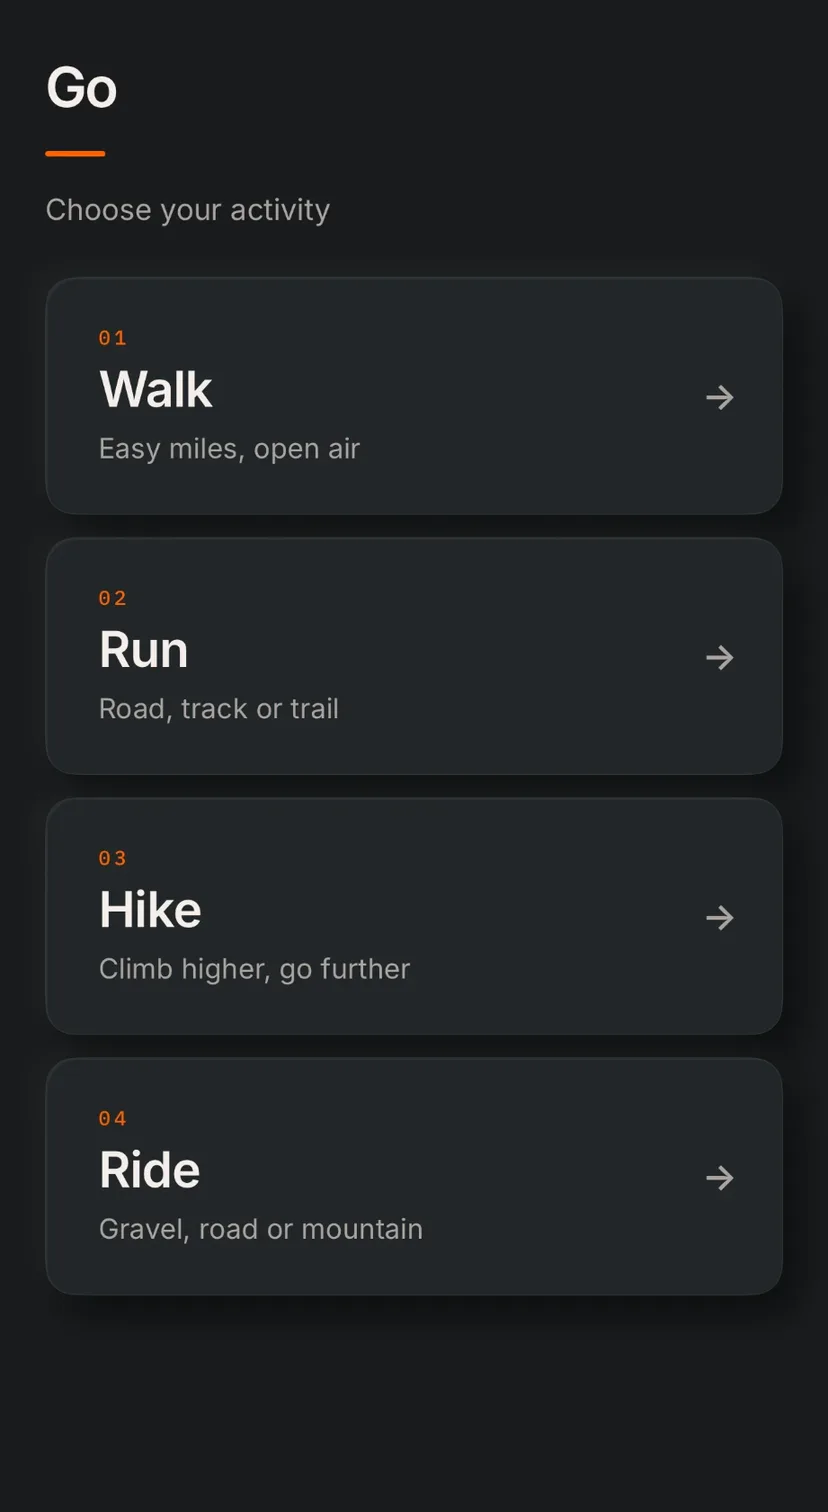
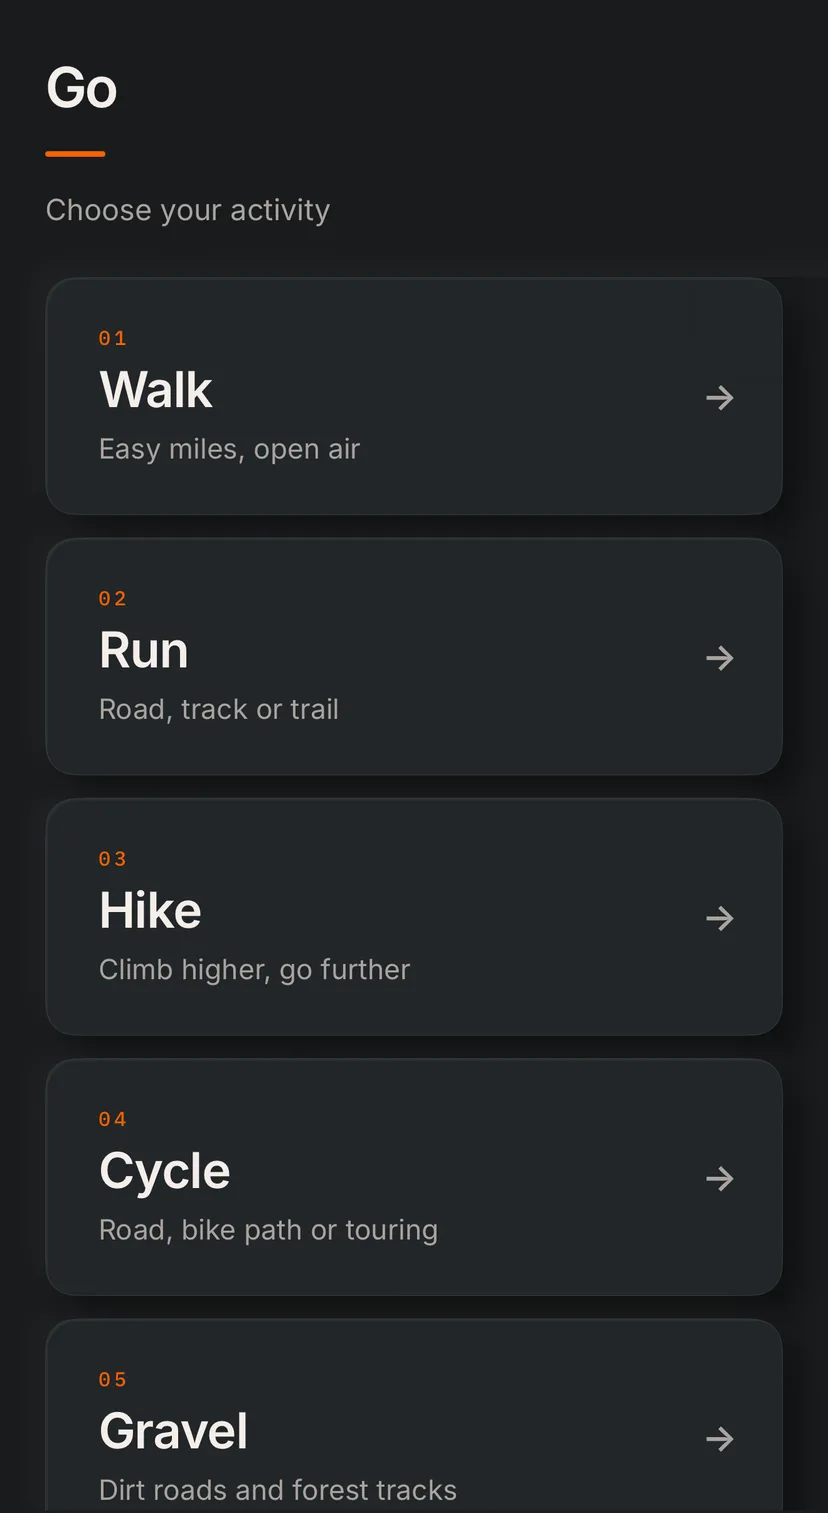
app showcase: the new Go screen (Walk, Run, Hike, Cycle, Gravel, Mountain bike)

Changed region(s): [[0.1208, 0.746, 0.5435, 0.8393], [0.1208, 0.9015, 0.5435, 0.9947], [0.8454, 0.9325, 0.8756, 0.9636]]

diff --git a/src/data/app-screens.ts b/src/data/app-screens.ts
@@ -46,8 +46,8 @@ export const APP_SCREENS: AppScreen[] = [
     title: 'Go',
     caption: { en: 'Choose your activity and go', nl: 'Kies je activiteit en ga' },
     alt: {
-      en: 'The Go screen: choose Walk, Run, Hike or Ride to start recording an outing.',
-      nl: 'Het Go-scherm: kies Walk, Run, Hike of Ride om een tocht op te nemen.',
+      en: 'The Go screen: choose Walk, Run, Hike, Cycle, Gravel or Mountain bike to start recording an outing.',
+      nl: 'Het Go-scherm: kies Walk, Run, Hike, Cycle, Gravel of Mountain bike om een tocht op te nemen.',
     },
   },
   {
